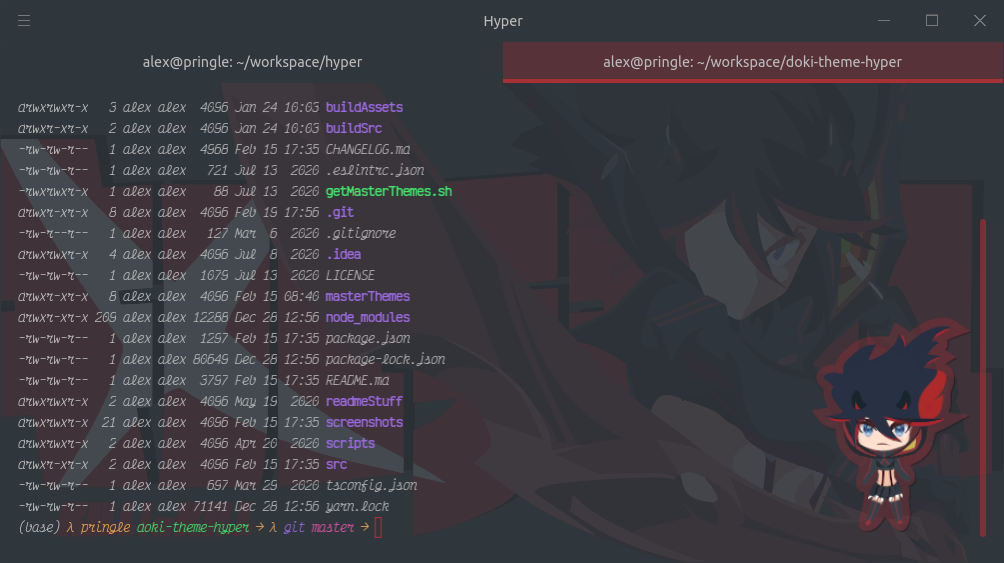
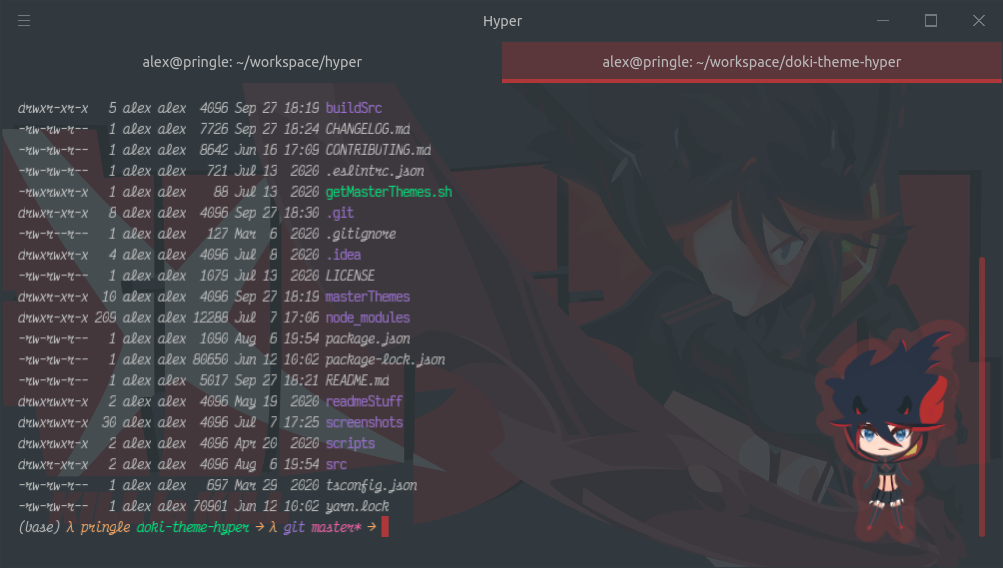
v14 - KillLaKill Alt. Themes & Only for Onii-chan (#53)
* v14 - KillLaKill Alt. Themes & Only for Onii-chan

* bump package json.

diff --git a/src/settings.ts b/src/settings.ts
@@ -61,7 +61,7 @@ const themes = Object.values(DokiThemeDefinitions)
     };
   });
 
-export const VERSION = "v13.0.0";
+export const VERSION = "v14.0.0";
 const icon = path.resolve(__dirname, "..", "assets", "Doki-Theme.png");
 const showAbout = () => {
   const appName = "Doki Theme";

diff --git a/albums/complete_theme_album.md b/albums/complete_theme_album.md
@@ -39,6 +39,10 @@ NekoPara
 ![maple_dark code](../screenshots/nekoPara/maple_dark_code.png)
 ![maple_light code](../screenshots/nekoPara/maple_light_code.png)
 
+### Shigure
+
+![shigure_light code](../screenshots/nekoPara/shigure_light_code.png)
+
 ### Cinnamon
 
 ![cinnamon_dark code](../screenshots/nekoPara/cinnamon_dark_code.png)
@@ -47,6 +51,20 @@ NekoPara
 
 ![azuki_dark code](../screenshots/nekoPara/azuki_dark_code.png)
 
+OreImo (My little sister cannot be this cute)
+---
+
+### Kousaka Kirino
+
+![kirino_dark code](../screenshots/oreimo/kirino_dark_code.png)
+
+
+EroManga Sensei
+---
+
+### Izumi Sagiri
+
+![sagiri_dark code](../screenshots/eromanga/sagiri_dark_code.png)
 
 Type-Moon
 ---
@@ -244,9 +262,11 @@ Kill La Kill
 
 ### Ryuko
 ![ryuko code](../screenshots/killLaKill/ryuko_code.png)
+![ryuko_light code](../screenshots/killLaKill/ryuko_light_code.png)
 
 ### Satsuki
 ![satsuki code](../screenshots/killLaKill/satsuki_code.png)
+![satsuki_dark code](../screenshots/killLaKill/satsuki_dark_code.png)
 
 High School DxD
 ---

diff --git a/README.md b/README.md
@@ -82,7 +82,7 @@ If you feel the need to slightly change your current theme's styles, you can add
 ## About!
 
 This plugin is for serious Otaku programmers.
-Code with your waifu. With over **50** themes,
+Code with your waifu. With over **60** themes,
 I think you will find best girl.
 
 You can choose themes from various, Anime, Manga, or Visual Novels:
@@ -93,6 +93,7 @@ You can choose themes from various, Anime, Manga, or Visual Novels:
 - Darling in the Franxx
 - Don't Toy With Me, Miss Nagatoro
 - Doki-Doki Literature Club
+- EroManga Sensei
 - Fate
 - Future Diary
 - Gate
@@ -107,6 +108,7 @@ You can choose themes from various, Anime, Manga, or Visual Novels:
 - NekoPara
 - Neon Genesis Evangelion
 - OreGairu
+- OreImo
 - Quintessential Quintuplets
 - Rascal does not dream of bunny girl senpai
 - Re:Zero

diff --git a/CHANGELOG.md b/CHANGELOG.md
@@ -1,5 +1,39 @@
 # Change Log
 
+# 14.0.0 [KillLaKill Alt. Themes & Only for Onii-Chan]
+
+## KillLaKill Alt. Themes
+
+**2 New Themes!**
+
+- Ryuko Light
+- Satsuki Dark
+
+![v19 Girls](https://doki.assets.unthrottled.io/misc/v19_girls.png)
+
+---
+
+## Only for Onii-Chan
+
+**3 New Themes!**
+
+Last addition from the NekoPara Series:
+
+- Minaduki Shigure (Light Theme)
+
+From the dumpster fire of a series, "EroManga Sensei":
+
+- Izumi Sagiri (Dark Theme)
+
+From the smaller burning trash heap, "OreImo (My little sister cannot be this cute)":
+
+- Kousaka Kirino (Dark Theme)
+
+Anime is trash...._and so am I_.
+
+![v20 Girls](https://doki.assets.unthrottled.io/misc/v20_girls.png)
+
+
 # 13.0.0 [NekoPara OneeSan Vol.]
 
 ## 4 New Themes!!
